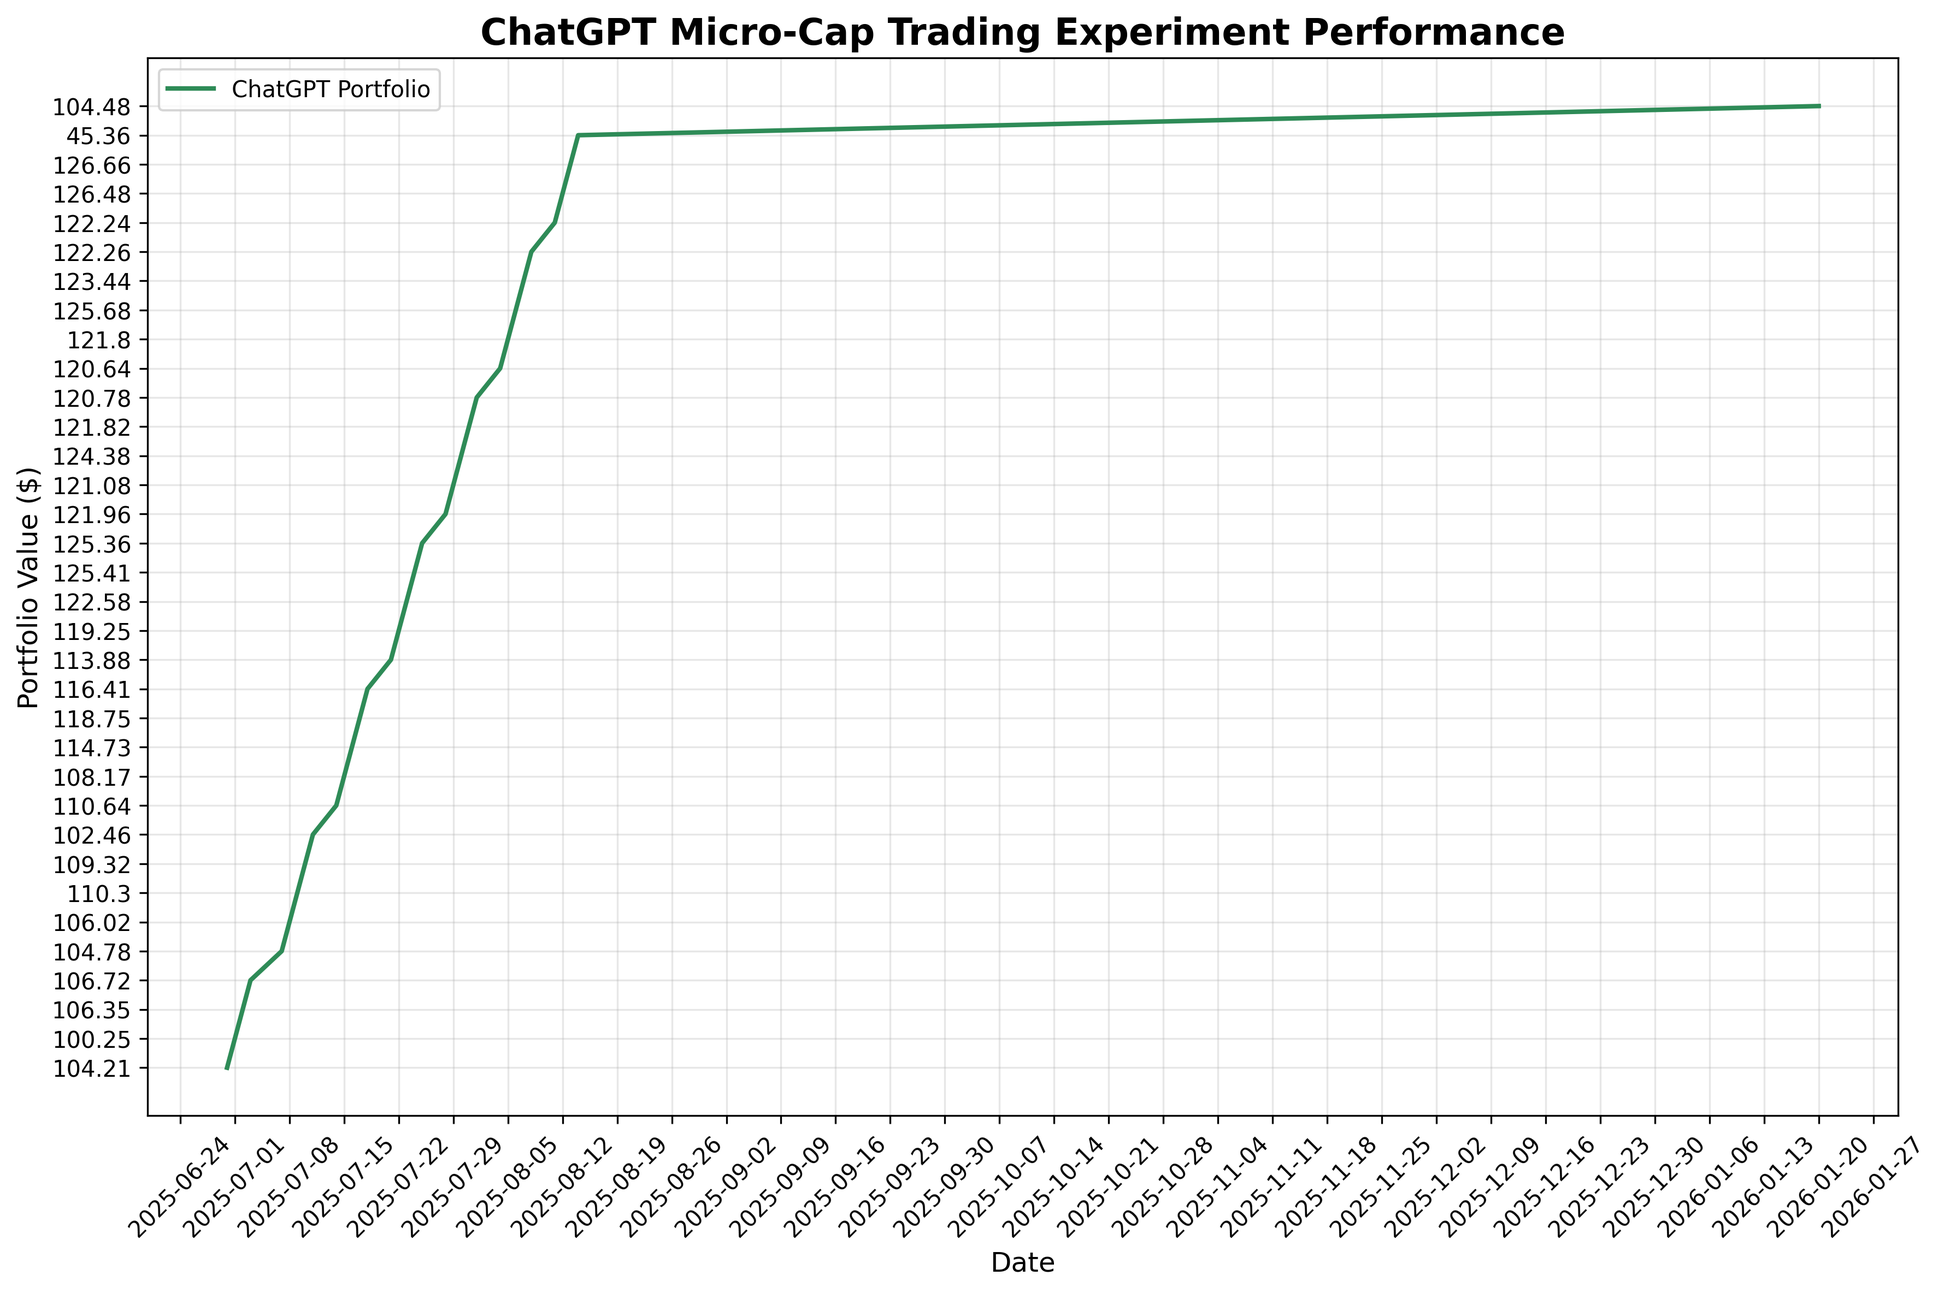
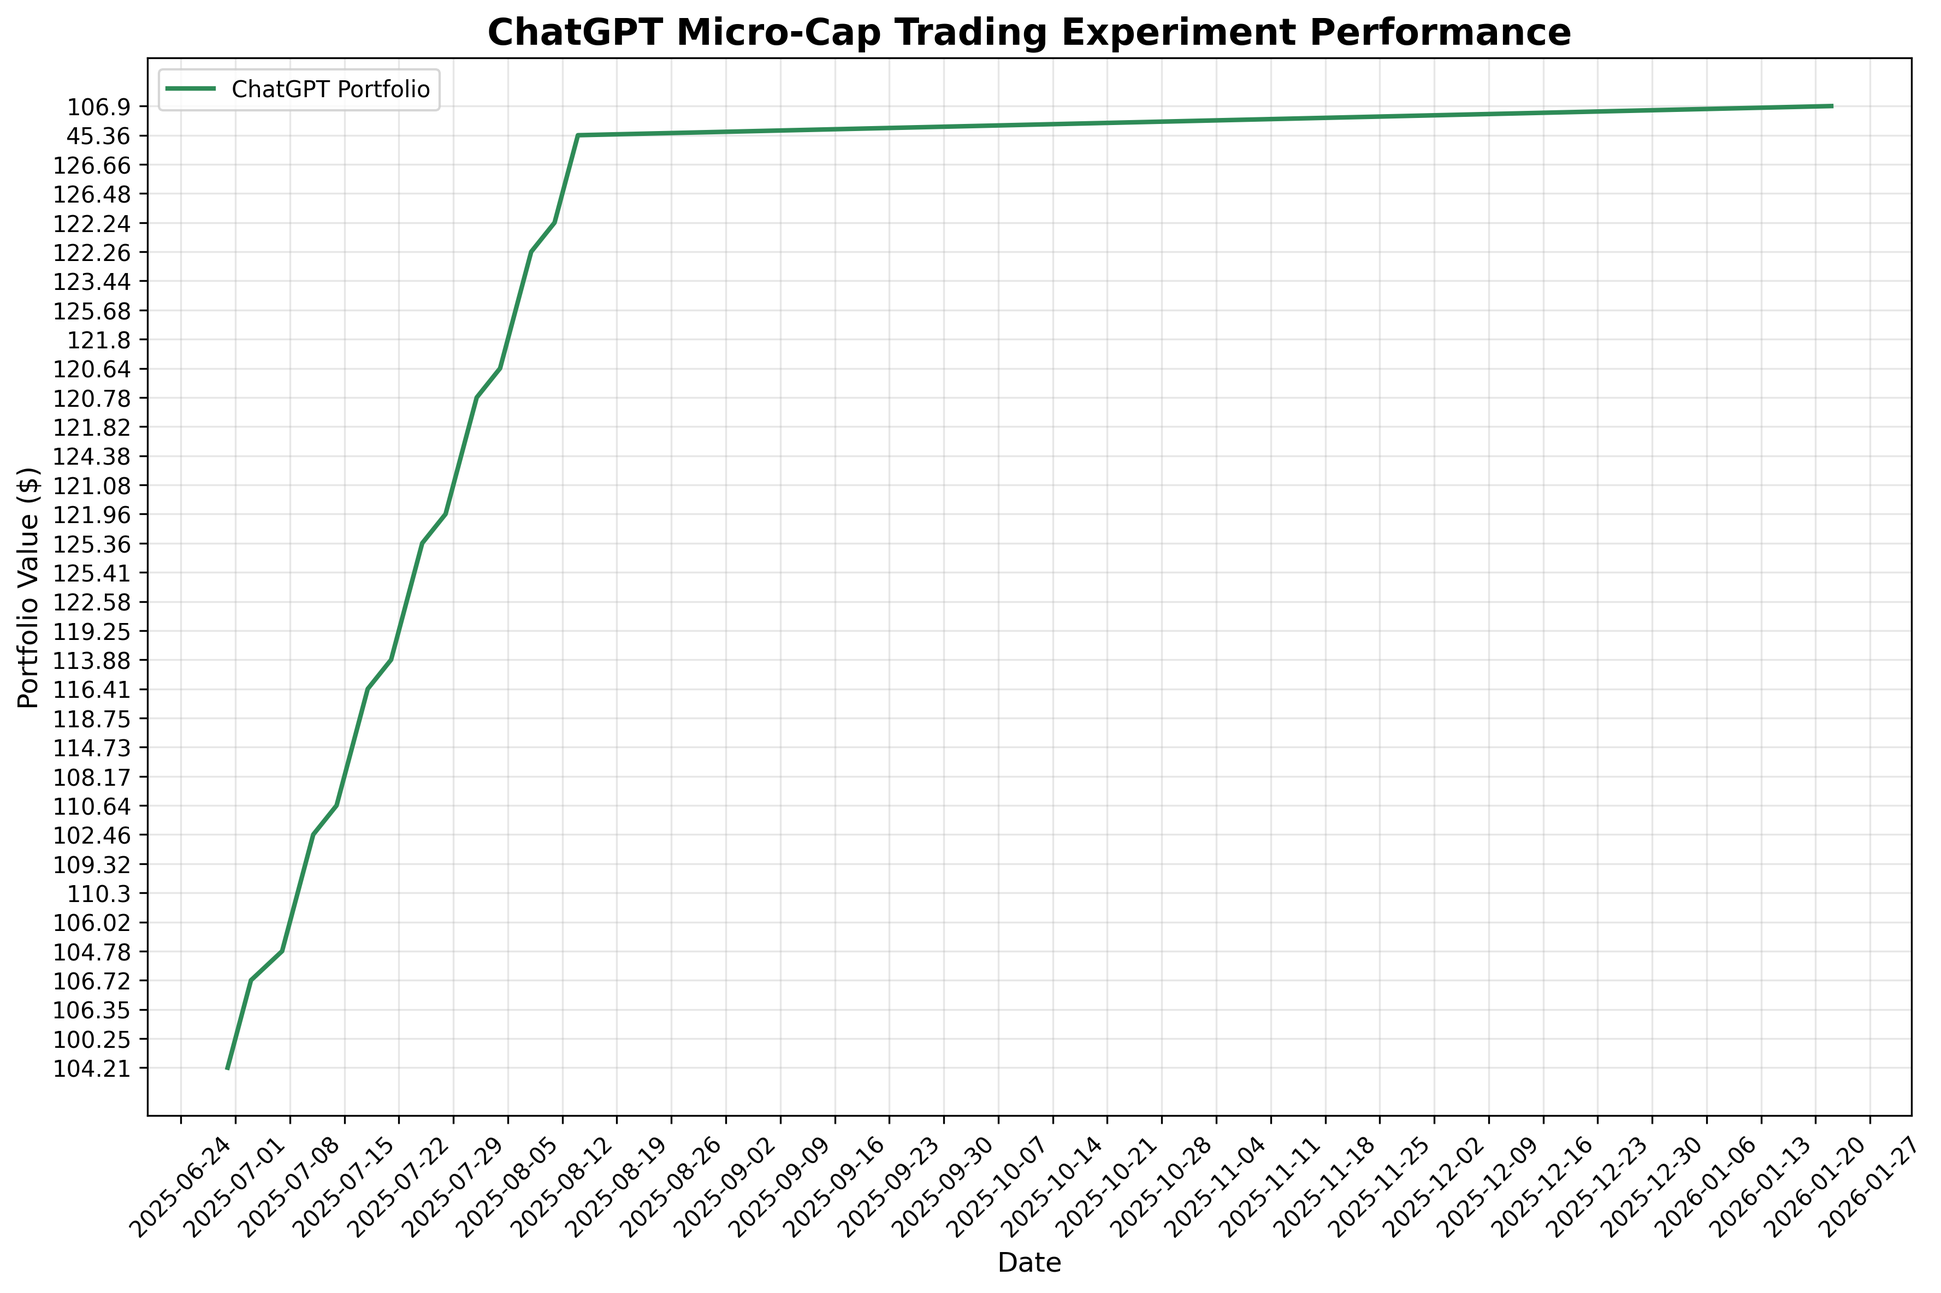
deploy: e15cad030d70fb3fbb51f9df6e22fa70c2f175c0

diff --git a/index.html b/index.html
@@ -105,7 +105,7 @@
                 <div class="stat-label">Total Trades</div>
             </div>
             <div class="stat-card">
-                <div class="stat-value" id="last-updated">2026-01-20</div>
+                <div class="stat-value" id="last-updated">2026-01-22</div>
                 <div class="stat-label">Last Updated</div>
             </div>
         </div>
@@ -160,7 +160,7 @@
     
     <script>
         // Portfolio data
-        const portfolioData = JSON.parse("[{&quot;Date&quot;: &quot;2025-08-11&quot;, &quot;Ticker&quot;: &quot;ABEO&quot;, &quot;Shares&quot;: 4.0, &quot;Buy Price&quot;: 5.77, &quot;Cost Basis&quot;: 23.08, &quot;Stop Loss&quot;: 4.9, &quot;Current Price&quot;: 6.28, &quot;Total Value&quot;: 25.12, &quot;PnL&quot;: 2.04, &quot;Action&quot;: &quot;HOLD&quot;, &quot;Cash Balance&quot;: NaN, &quot;Total Equity&quot;: NaN}, {&quot;Date&quot;: &quot;2025-08-11&quot;, &quot;Ticker&quot;: &quot;ACTU&quot;, &quot;Shares&quot;: 6.0, &quot;Buy Price&quot;: 5.75, &quot;Cost Basis&quot;: 34.5, &quot;Stop Loss&quot;: 4.89, &quot;Current Price&quot;: 8.01, &quot;Total Value&quot;: 48.06, &quot;PnL&quot;: 13.56, &quot;Action&quot;: &quot;HOLD&quot;, &quot;Cash Balance&quot;: NaN, &quot;Total Equity&quot;: NaN}, {&quot;Date&quot;: &quot;2025-08-11&quot;, &quot;Ticker&quot;: &quot;ESPR&quot;, &quot;Shares&quot;: 2.0, &quot;Buy Price&quot;: 1.91, &quot;Cost Basis&quot;: 3.82, &quot;Stop Loss&quot;: 1.6, &quot;Current Price&quot;: 1.85, &quot;Total Value&quot;: 3.7, &quot;PnL&quot;: -0.12, &quot;Action&quot;: &quot;HOLD&quot;, &quot;Cash Balance&quot;: NaN, &quot;Total Equity&quot;: NaN}, {&quot;Date&quot;: &quot;2025-08-11&quot;, &quot;Ticker&quot;: &quot;TOTAL&quot;, &quot;Shares&quot;: NaN, &quot;Buy Price&quot;: NaN, &quot;Cost Basis&quot;: NaN, &quot;Stop Loss&quot;: NaN, &quot;Current Price&quot;: NaN, &quot;Total Value&quot;: 76.88, &quot;PnL&quot;: 15.48, &quot;Action&quot;: NaN, &quot;Cash Balance&quot;: 45.36, &quot;Total Equity&quot;: &quot;122.24&quot;}, {&quot;Date&quot;: &quot;2025-08-12&quot;, &quot;Ticker&quot;: &quot;ABEO&quot;, &quot;Shares&quot;: 4.0, &quot;Buy Price&quot;: 5.77, &quot;Cost Basis&quot;: 23.08, &quot;Stop Loss&quot;: 4.9, &quot;Current Price&quot;: 6.38, &quot;Total Value&quot;: 25.52, &quot;PnL&quot;: 2.44, &quot;Action&quot;: &quot;HOLD&quot;, &quot;Cash Balance&quot;: NaN, &quot;Total Equity&quot;: NaN}, {&quot;Date&quot;: &quot;2025-08-12&quot;, &quot;Ticker&quot;: &quot;ACTU&quot;, &quot;Shares&quot;: 6.0, &quot;Buy Price&quot;: 5.75, &quot;Cost Basis&quot;: 34.5, &quot;Stop Loss&quot;: 4.89, &quot;Current Price&quot;: 8.67, &quot;Total Value&quot;: 52.02, &quot;PnL&quot;: 17.52, &quot;Action&quot;: &quot;HOLD&quot;, &quot;Cash Balance&quot;: NaN, &quot;Total Equity&quot;: NaN}, {&quot;Date&quot;: &quot;2025-08-12&quot;, &quot;Ticker&quot;: &quot;ESPR&quot;, &quot;Shares&quot;: 2.0, &quot;Buy Price&quot;: 1.91, &quot;Cost Basis&quot;: 3.82, &quot;Stop Loss&quot;: 1.6, &quot;Current Price&quot;: 1.79, &quot;Total Value&quot;: 3.58, &quot;PnL&quot;: -0.24, &quot;Action&quot;: &quot;HOLD&quot;, &quot;Cash Balance&quot;: NaN, &quot;Total Equity&quot;: NaN}, {&quot;Date&quot;: &quot;2025-08-12&quot;, &quot;Ticker&quot;: &quot;TOTAL&quot;, &quot;Shares&quot;: NaN, &quot;Buy Price&quot;: NaN, &quot;Cost Basis&quot;: NaN, &quot;Stop Loss&quot;: NaN, &quot;Current Price&quot;: NaN, &quot;Total Value&quot;: 81.12, &quot;PnL&quot;: 19.72, &quot;Action&quot;: NaN, &quot;Cash Balance&quot;: 45.36, &quot;Total Equity&quot;: &quot;126.48&quot;}, {&quot;Date&quot;: &quot;2025-08-13&quot;, &quot;Ticker&quot;: &quot;ABEO&quot;, &quot;Shares&quot;: 4.0, &quot;Buy Price&quot;: 5.77, &quot;Cost Basis&quot;: 23.08, &quot;Stop Loss&quot;: 4.9, &quot;Current Price&quot;: 6.56, &quot;Total Value&quot;: 26.24, &quot;PnL&quot;: 3.16, &quot;Action&quot;: &quot;HOLD&quot;, &quot;Cash Balance&quot;: NaN, &quot;Total Equity&quot;: NaN}, {&quot;Date&quot;: &quot;2025-08-13&quot;, &quot;Ticker&quot;: &quot;ACTU&quot;, &quot;Shares&quot;: 6.0, &quot;Buy Price&quot;: 5.75, &quot;Cost Basis&quot;: 34.5, &quot;Stop Loss&quot;: 4.89, &quot;Current Price&quot;: 8.53, &quot;Total Value&quot;: 51.18, &quot;PnL&quot;: 16.68, &quot;Action&quot;: &quot;HOLD&quot;, &quot;Cash Balance&quot;: NaN, &quot;Total Equity&quot;: NaN}, {&quot;Date&quot;: &quot;2025-08-13&quot;, &quot;Ticker&quot;: &quot;ESPR&quot;, &quot;Shares&quot;: 2.0, &quot;Buy Price&quot;: 1.91, &quot;Cost Basis&quot;: 3.82, &quot;Stop Loss&quot;: 1.6, &quot;Current Price&quot;: 1.94, &quot;Total Value&quot;: 3.88, &quot;PnL&quot;: 0.06, &quot;Action&quot;: &quot;HOLD&quot;, &quot;Cash Balance&quot;: NaN, &quot;Total Equity&quot;: NaN}, {&quot;Date&quot;: &quot;2025-08-13&quot;, &quot;Ticker&quot;: &quot;TOTAL&quot;, &quot;Shares&quot;: NaN, &quot;Buy Price&quot;: NaN, &quot;Cost Basis&quot;: NaN, &quot;Stop Loss&quot;: NaN, &quot;Current Price&quot;: NaN, &quot;Total Value&quot;: 81.3, &quot;PnL&quot;: 19.9, &quot;Action&quot;: NaN, &quot;Cash Balance&quot;: 45.36, &quot;Total Equity&quot;: &quot;126.66&quot;}, {&quot;Date&quot;: &quot;2025-08-14&quot;, &quot;Ticker&quot;: &quot;ABEO&quot;, &quot;Shares&quot;: 4.0, &quot;Buy Price&quot;: 5.77, &quot;Cost Basis&quot;: 23.08, &quot;Stop Loss&quot;: 4.9, &quot;Current Price&quot;: NaN, &quot;Total Value&quot;: NaN, &quot;PnL&quot;: NaN, &quot;Action&quot;: &quot;NO DATA&quot;, &quot;Cash Balance&quot;: NaN, &quot;Total Equity&quot;: NaN}, {&quot;Date&quot;: &quot;2025-08-14&quot;, &quot;Ticker&quot;: &quot;ACTU&quot;, &quot;Shares&quot;: 6.0, &quot;Buy Price&quot;: 5.75, &quot;Cost Basis&quot;: 34.5, &quot;Stop Loss&quot;: 4.89, &quot;Current Price&quot;: NaN, &quot;Total Value&quot;: NaN, &quot;PnL&quot;: NaN, &quot;Action&quot;: &quot;NO DATA&quot;, &quot;Cash Balance&quot;: NaN, &quot;Total Equity&quot;: NaN}, {&quot;Date&quot;: &quot;2025-08-14&quot;, &quot;Ticker&quot;: &quot;ESPR&quot;, &quot;Shares&quot;: 2.0, &quot;Buy Price&quot;: 1.91, &quot;Cost Basis&quot;: 3.82, &quot;Stop Loss&quot;: 1.6, &quot;Current Price&quot;: NaN, &quot;Total Value&quot;: NaN, &quot;PnL&quot;: NaN, &quot;Action&quot;: &quot;NO DATA&quot;, &quot;Cash Balance&quot;: NaN, &quot;Total Equity&quot;: NaN}, {&quot;Date&quot;: &quot;2025-08-14&quot;, &quot;Ticker&quot;: &quot;TOTAL&quot;, &quot;Shares&quot;: NaN, &quot;Buy Price&quot;: NaN, &quot;Cost Basis&quot;: NaN, &quot;Stop Loss&quot;: NaN, &quot;Current Price&quot;: NaN, &quot;Total Value&quot;: 0.0, &quot;PnL&quot;: 0.0, &quot;Action&quot;: NaN, &quot;Cash Balance&quot;: 45.36, &quot;Total Equity&quot;: &quot;45.36&quot;}, {&quot;Date&quot;: &quot;2026-01-20&quot;, &quot;Ticker&quot;: &quot;ABEO&quot;, &quot;Shares&quot;: 4.0, &quot;Buy Price&quot;: 5.77, &quot;Cost Basis&quot;: 23.08, &quot;Stop Loss&quot;: 4.9, &quot;Current Price&quot;: 5.15, &quot;Total Value&quot;: 20.6, &quot;PnL&quot;: -2.48, &quot;Action&quot;: &quot;HOLD&quot;, &quot;Cash Balance&quot;: NaN, &quot;Total Equity&quot;: NaN}, {&quot;Date&quot;: &quot;2026-01-20&quot;, &quot;Ticker&quot;: &quot;ACTU&quot;, &quot;Shares&quot;: 6.0, &quot;Buy Price&quot;: 5.75, &quot;Cost Basis&quot;: 34.5, &quot;Stop Loss&quot;: 4.89, &quot;Current Price&quot;: 5.45, &quot;Total Value&quot;: 32.7, &quot;PnL&quot;: -1.8, &quot;Action&quot;: &quot;HOLD&quot;, &quot;Cash Balance&quot;: NaN, &quot;Total Equity&quot;: NaN}, {&quot;Date&quot;: &quot;2026-01-20&quot;, &quot;Ticker&quot;: &quot;ESPR&quot;, &quot;Shares&quot;: 2.0, &quot;Buy Price&quot;: 1.91, &quot;Cost Basis&quot;: 3.82, &quot;Stop Loss&quot;: 1.6, &quot;Current Price&quot;: 2.91, &quot;Total Value&quot;: 5.82, &quot;PnL&quot;: 2.0, &quot;Action&quot;: &quot;HOLD&quot;, &quot;Cash Balance&quot;: NaN, &quot;Total Equity&quot;: NaN}, {&quot;Date&quot;: &quot;2026-01-20&quot;, &quot;Ticker&quot;: &quot;TOTAL&quot;, &quot;Shares&quot;: NaN, &quot;Buy Price&quot;: NaN, &quot;Cost Basis&quot;: NaN, &quot;Stop Loss&quot;: NaN, &quot;Current Price&quot;: NaN, &quot;Total Value&quot;: 59.12, &quot;PnL&quot;: -2.28, &quot;Action&quot;: NaN, &quot;Cash Balance&quot;: 45.36, &quot;Total Equity&quot;: &quot;104.48&quot;}]");
+        const portfolioData = JSON.parse("[{&quot;Date&quot;: &quot;2025-08-11&quot;, &quot;Ticker&quot;: &quot;ABEO&quot;, &quot;Shares&quot;: 4.0, &quot;Buy Price&quot;: 5.77, &quot;Cost Basis&quot;: 23.08, &quot;Stop Loss&quot;: 4.9, &quot;Current Price&quot;: 6.28, &quot;Total Value&quot;: 25.12, &quot;PnL&quot;: 2.04, &quot;Action&quot;: &quot;HOLD&quot;, &quot;Cash Balance&quot;: NaN, &quot;Total Equity&quot;: NaN}, {&quot;Date&quot;: &quot;2025-08-11&quot;, &quot;Ticker&quot;: &quot;ACTU&quot;, &quot;Shares&quot;: 6.0, &quot;Buy Price&quot;: 5.75, &quot;Cost Basis&quot;: 34.5, &quot;Stop Loss&quot;: 4.89, &quot;Current Price&quot;: 8.01, &quot;Total Value&quot;: 48.06, &quot;PnL&quot;: 13.56, &quot;Action&quot;: &quot;HOLD&quot;, &quot;Cash Balance&quot;: NaN, &quot;Total Equity&quot;: NaN}, {&quot;Date&quot;: &quot;2025-08-11&quot;, &quot;Ticker&quot;: &quot;ESPR&quot;, &quot;Shares&quot;: 2.0, &quot;Buy Price&quot;: 1.91, &quot;Cost Basis&quot;: 3.82, &quot;Stop Loss&quot;: 1.6, &quot;Current Price&quot;: 1.85, &quot;Total Value&quot;: 3.7, &quot;PnL&quot;: -0.12, &quot;Action&quot;: &quot;HOLD&quot;, &quot;Cash Balance&quot;: NaN, &quot;Total Equity&quot;: NaN}, {&quot;Date&quot;: &quot;2025-08-11&quot;, &quot;Ticker&quot;: &quot;TOTAL&quot;, &quot;Shares&quot;: NaN, &quot;Buy Price&quot;: NaN, &quot;Cost Basis&quot;: NaN, &quot;Stop Loss&quot;: NaN, &quot;Current Price&quot;: NaN, &quot;Total Value&quot;: 76.88, &quot;PnL&quot;: 15.48, &quot;Action&quot;: NaN, &quot;Cash Balance&quot;: 45.36, &quot;Total Equity&quot;: &quot;122.24&quot;}, {&quot;Date&quot;: &quot;2025-08-12&quot;, &quot;Ticker&quot;: &quot;ABEO&quot;, &quot;Shares&quot;: 4.0, &quot;Buy Price&quot;: 5.77, &quot;Cost Basis&quot;: 23.08, &quot;Stop Loss&quot;: 4.9, &quot;Current Price&quot;: 6.38, &quot;Total Value&quot;: 25.52, &quot;PnL&quot;: 2.44, &quot;Action&quot;: &quot;HOLD&quot;, &quot;Cash Balance&quot;: NaN, &quot;Total Equity&quot;: NaN}, {&quot;Date&quot;: &quot;2025-08-12&quot;, &quot;Ticker&quot;: &quot;ACTU&quot;, &quot;Shares&quot;: 6.0, &quot;Buy Price&quot;: 5.75, &quot;Cost Basis&quot;: 34.5, &quot;Stop Loss&quot;: 4.89, &quot;Current Price&quot;: 8.67, &quot;Total Value&quot;: 52.02, &quot;PnL&quot;: 17.52, &quot;Action&quot;: &quot;HOLD&quot;, &quot;Cash Balance&quot;: NaN, &quot;Total Equity&quot;: NaN}, {&quot;Date&quot;: &quot;2025-08-12&quot;, &quot;Ticker&quot;: &quot;ESPR&quot;, &quot;Shares&quot;: 2.0, &quot;Buy Price&quot;: 1.91, &quot;Cost Basis&quot;: 3.82, &quot;Stop Loss&quot;: 1.6, &quot;Current Price&quot;: 1.79, &quot;Total Value&quot;: 3.58, &quot;PnL&quot;: -0.24, &quot;Action&quot;: &quot;HOLD&quot;, &quot;Cash Balance&quot;: NaN, &quot;Total Equity&quot;: NaN}, {&quot;Date&quot;: &quot;2025-08-12&quot;, &quot;Ticker&quot;: &quot;TOTAL&quot;, &quot;Shares&quot;: NaN, &quot;Buy Price&quot;: NaN, &quot;Cost Basis&quot;: NaN, &quot;Stop Loss&quot;: NaN, &quot;Current Price&quot;: NaN, &quot;Total Value&quot;: 81.12, &quot;PnL&quot;: 19.72, &quot;Action&quot;: NaN, &quot;Cash Balance&quot;: 45.36, &quot;Total Equity&quot;: &quot;126.48&quot;}, {&quot;Date&quot;: &quot;2025-08-13&quot;, &quot;Ticker&quot;: &quot;ABEO&quot;, &quot;Shares&quot;: 4.0, &quot;Buy Price&quot;: 5.77, &quot;Cost Basis&quot;: 23.08, &quot;Stop Loss&quot;: 4.9, &quot;Current Price&quot;: 6.56, &quot;Total Value&quot;: 26.24, &quot;PnL&quot;: 3.16, &quot;Action&quot;: &quot;HOLD&quot;, &quot;Cash Balance&quot;: NaN, &quot;Total Equity&quot;: NaN}, {&quot;Date&quot;: &quot;2025-08-13&quot;, &quot;Ticker&quot;: &quot;ACTU&quot;, &quot;Shares&quot;: 6.0, &quot;Buy Price&quot;: 5.75, &quot;Cost Basis&quot;: 34.5, &quot;Stop Loss&quot;: 4.89, &quot;Current Price&quot;: 8.53, &quot;Total Value&quot;: 51.18, &quot;PnL&quot;: 16.68, &quot;Action&quot;: &quot;HOLD&quot;, &quot;Cash Balance&quot;: NaN, &quot;Total Equity&quot;: NaN}, {&quot;Date&quot;: &quot;2025-08-13&quot;, &quot;Ticker&quot;: &quot;ESPR&quot;, &quot;Shares&quot;: 2.0, &quot;Buy Price&quot;: 1.91, &quot;Cost Basis&quot;: 3.82, &quot;Stop Loss&quot;: 1.6, &quot;Current Price&quot;: 1.94, &quot;Total Value&quot;: 3.88, &quot;PnL&quot;: 0.06, &quot;Action&quot;: &quot;HOLD&quot;, &quot;Cash Balance&quot;: NaN, &quot;Total Equity&quot;: NaN}, {&quot;Date&quot;: &quot;2025-08-13&quot;, &quot;Ticker&quot;: &quot;TOTAL&quot;, &quot;Shares&quot;: NaN, &quot;Buy Price&quot;: NaN, &quot;Cost Basis&quot;: NaN, &quot;Stop Loss&quot;: NaN, &quot;Current Price&quot;: NaN, &quot;Total Value&quot;: 81.3, &quot;PnL&quot;: 19.9, &quot;Action&quot;: NaN, &quot;Cash Balance&quot;: 45.36, &quot;Total Equity&quot;: &quot;126.66&quot;}, {&quot;Date&quot;: &quot;2025-08-14&quot;, &quot;Ticker&quot;: &quot;ABEO&quot;, &quot;Shares&quot;: 4.0, &quot;Buy Price&quot;: 5.77, &quot;Cost Basis&quot;: 23.08, &quot;Stop Loss&quot;: 4.9, &quot;Current Price&quot;: NaN, &quot;Total Value&quot;: NaN, &quot;PnL&quot;: NaN, &quot;Action&quot;: &quot;NO DATA&quot;, &quot;Cash Balance&quot;: NaN, &quot;Total Equity&quot;: NaN}, {&quot;Date&quot;: &quot;2025-08-14&quot;, &quot;Ticker&quot;: &quot;ACTU&quot;, &quot;Shares&quot;: 6.0, &quot;Buy Price&quot;: 5.75, &quot;Cost Basis&quot;: 34.5, &quot;Stop Loss&quot;: 4.89, &quot;Current Price&quot;: NaN, &quot;Total Value&quot;: NaN, &quot;PnL&quot;: NaN, &quot;Action&quot;: &quot;NO DATA&quot;, &quot;Cash Balance&quot;: NaN, &quot;Total Equity&quot;: NaN}, {&quot;Date&quot;: &quot;2025-08-14&quot;, &quot;Ticker&quot;: &quot;ESPR&quot;, &quot;Shares&quot;: 2.0, &quot;Buy Price&quot;: 1.91, &quot;Cost Basis&quot;: 3.82, &quot;Stop Loss&quot;: 1.6, &quot;Current Price&quot;: NaN, &quot;Total Value&quot;: NaN, &quot;PnL&quot;: NaN, &quot;Action&quot;: &quot;NO DATA&quot;, &quot;Cash Balance&quot;: NaN, &quot;Total Equity&quot;: NaN}, {&quot;Date&quot;: &quot;2025-08-14&quot;, &quot;Ticker&quot;: &quot;TOTAL&quot;, &quot;Shares&quot;: NaN, &quot;Buy Price&quot;: NaN, &quot;Cost Basis&quot;: NaN, &quot;Stop Loss&quot;: NaN, &quot;Current Price&quot;: NaN, &quot;Total Value&quot;: 0.0, &quot;PnL&quot;: 0.0, &quot;Action&quot;: NaN, &quot;Cash Balance&quot;: 45.36, &quot;Total Equity&quot;: &quot;45.36&quot;}, {&quot;Date&quot;: &quot;2026-01-22&quot;, &quot;Ticker&quot;: &quot;ABEO&quot;, &quot;Shares&quot;: 4.0, &quot;Buy Price&quot;: 5.77, &quot;Cost Basis&quot;: 23.08, &quot;Stop Loss&quot;: 4.9, &quot;Current Price&quot;: 5.28, &quot;Total Value&quot;: 21.12, &quot;PnL&quot;: -1.96, &quot;Action&quot;: &quot;HOLD&quot;, &quot;Cash Balance&quot;: NaN, &quot;Total Equity&quot;: NaN}, {&quot;Date&quot;: &quot;2026-01-22&quot;, &quot;Ticker&quot;: &quot;ACTU&quot;, &quot;Shares&quot;: 6.0, &quot;Buy Price&quot;: 5.75, &quot;Cost Basis&quot;: 34.5, &quot;Stop Loss&quot;: 4.89, &quot;Current Price&quot;: 5.72, &quot;Total Value&quot;: 34.32, &quot;PnL&quot;: -0.18, &quot;Action&quot;: &quot;HOLD&quot;, &quot;Cash Balance&quot;: NaN, &quot;Total Equity&quot;: NaN}, {&quot;Date&quot;: &quot;2026-01-22&quot;, &quot;Ticker&quot;: &quot;ESPR&quot;, &quot;Shares&quot;: 2.0, &quot;Buy Price&quot;: 1.91, &quot;Cost Basis&quot;: 3.82, &quot;Stop Loss&quot;: 1.6, &quot;Current Price&quot;: 3.05, &quot;Total Value&quot;: 6.1, &quot;PnL&quot;: 2.28, &quot;Action&quot;: &quot;HOLD&quot;, &quot;Cash Balance&quot;: NaN, &quot;Total Equity&quot;: NaN}, {&quot;Date&quot;: &quot;2026-01-22&quot;, &quot;Ticker&quot;: &quot;TOTAL&quot;, &quot;Shares&quot;: NaN, &quot;Buy Price&quot;: NaN, &quot;Cost Basis&quot;: NaN, &quot;Stop Loss&quot;: NaN, &quot;Current Price&quot;: NaN, &quot;Total Value&quot;: 61.54, &quot;PnL&quot;: 0.14, &quot;Action&quot;: NaN, &quot;Cash Balance&quot;: 45.36, &quot;Total Equity&quot;: &quot;106.9&quot;}]");
         const tradeData = JSON.parse("[{&quot;Date&quot;: &quot;2025-07-07&quot;, &quot;Ticker&quot;: &quot;CSAI&quot;, &quot;Shares Bought&quot;: NaN, &quot;Buy Price&quot;: NaN, &quot;Cost Basis&quot;: 1.9, &quot;PnL&quot;: 5.7, &quot;Reason&quot;: &quot;MANUAL SELL - Rotated into AZTR&quot;, &quot;Shares Sold&quot;: 15.0, &quot;Sell Price&quot;: 2.28}, {&quot;Date&quot;: &quot;2025-07-08&quot;, &quot;Ticker&quot;: &quot;IINN&quot;, &quot;Shares Bought&quot;: 20.0, &quot;Buy Price&quot;: 1.5, &quot;Cost Basis&quot;: 30.0, &quot;PnL&quot;: 0.0, &quot;Reason&quot;: &quot;MANUAL BUY - New position&quot;, &quot;Shares Sold&quot;: NaN, &quot;Sell Price&quot;: NaN}, {&quot;Date&quot;: &quot;2025-07-21&quot;, &quot;Ticker&quot;: &quot;CADL&quot;, &quot;Shares Bought&quot;: NaN, &quot;Buy Price&quot;: NaN, &quot;Cost Basis&quot;: 25.2, &quot;PnL&quot;: 8.5, &quot;Reason&quot;: &quot;MANUAL SELL - GAIN CAPITAL FOR ACTU&quot;, &quot;Shares Sold&quot;: 5.0, &quot;Sell Price&quot;: 6.59}, {&quot;Date&quot;: &quot;2025-07-21&quot;, &quot;Ticker&quot;: &quot;ACTU&quot;, &quot;Shares Bought&quot;: 6.0, &quot;Buy Price&quot;: 5.75, &quot;Cost Basis&quot;: 34.5, &quot;PnL&quot;: 0.0, &quot;Reason&quot;: &quot;MANUAL BUY - New position&quot;, &quot;Shares Sold&quot;: NaN, &quot;Sell Price&quot;: NaN}, {&quot;Date&quot;: &quot;2025-07-28&quot;, &quot;Ticker&quot;: &quot;IINN&quot;, &quot;Shares Bought&quot;: NaN, &quot;Buy Price&quot;: NaN, &quot;Cost Basis&quot;: 9.0, &quot;PnL&quot;: -0.5400000000000009, &quot;Reason&quot;: &quot;MANUAL SELL - POSITION REDUCTION&quot;, &quot;Shares Sold&quot;: 6.0, &quot;Sell Price&quot;: 1.41}, {&quot;Date&quot;: &quot;2025-07-29&quot;, &quot;Ticker&quot;: &quot;AZTR&quot;, &quot;Shares Bought&quot;: NaN, &quot;Buy Price&quot;: NaN, &quot;Cost Basis&quot;: 13.75, &quot;PnL&quot;: -2.75, &quot;Reason&quot;: &quot;MANUAL SELL - DILUTION RISK&quot;, &quot;Shares Sold&quot;: 55.0, &quot;Sell Price&quot;: 0.2}, {&quot;Date&quot;: &quot;2025-08-01&quot;, &quot;Ticker&quot;: &quot;IINN&quot;, &quot;Shares Bought&quot;: 2.0, &quot;Buy Price&quot;: 1.74, &quot;Cost Basis&quot;: 3.48, &quot;PnL&quot;: 0.0, &quot;Reason&quot;: &quot;MANUAL BUY - New position&quot;, &quot;Shares Sold&quot;: NaN, &quot;Sell Price&quot;: NaN}, {&quot;Date&quot;: &quot;2025-08-01&quot;, &quot;Ticker&quot;: &quot;ABEO&quot;, &quot;Shares Bought&quot;: NaN, &quot;Buy Price&quot;: NaN, &quot;Cost Basis&quot;: 11.54, &quot;PnL&quot;: 1.200000000000001, &quot;Reason&quot;: &quot;MANUAL SELL - TRIM AFTER SUPPORT LOSS&quot;, &quot;Shares Sold&quot;: 2.0, &quot;Sell Price&quot;: 6.37}, {&quot;Date&quot;: &quot;2025-08-07&quot;, &quot;Ticker&quot;: &quot;ESPR&quot;, &quot;Shares Bought&quot;: 2.0, &quot;Buy Price&quot;: 1.91, &quot;Cost Basis&quot;: 3.82, &quot;PnL&quot;: 0.0, &quot;Reason&quot;: &quot;MANUAL BUY - New position&quot;, &quot;Shares Sold&quot;: NaN, &quot;Sell Price&quot;: NaN}, {&quot;Date&quot;: &quot;2025-08-08&quot;, &quot;Ticker&quot;: &quot;IINN&quot;, &quot;Shares Bought&quot;: NaN, &quot;Buy Price&quot;: NaN, &quot;Cost Basis&quot;: 1.5, &quot;PnL&quot;: -6.4, &quot;Reason&quot;: &quot;AUTOMATED SELL - STOPLOSS TRIGGERED&quot;, &quot;Shares Sold&quot;: 16.0, &quot;Sell Price&quot;: 1.1}]");
         
         // Update total equity
